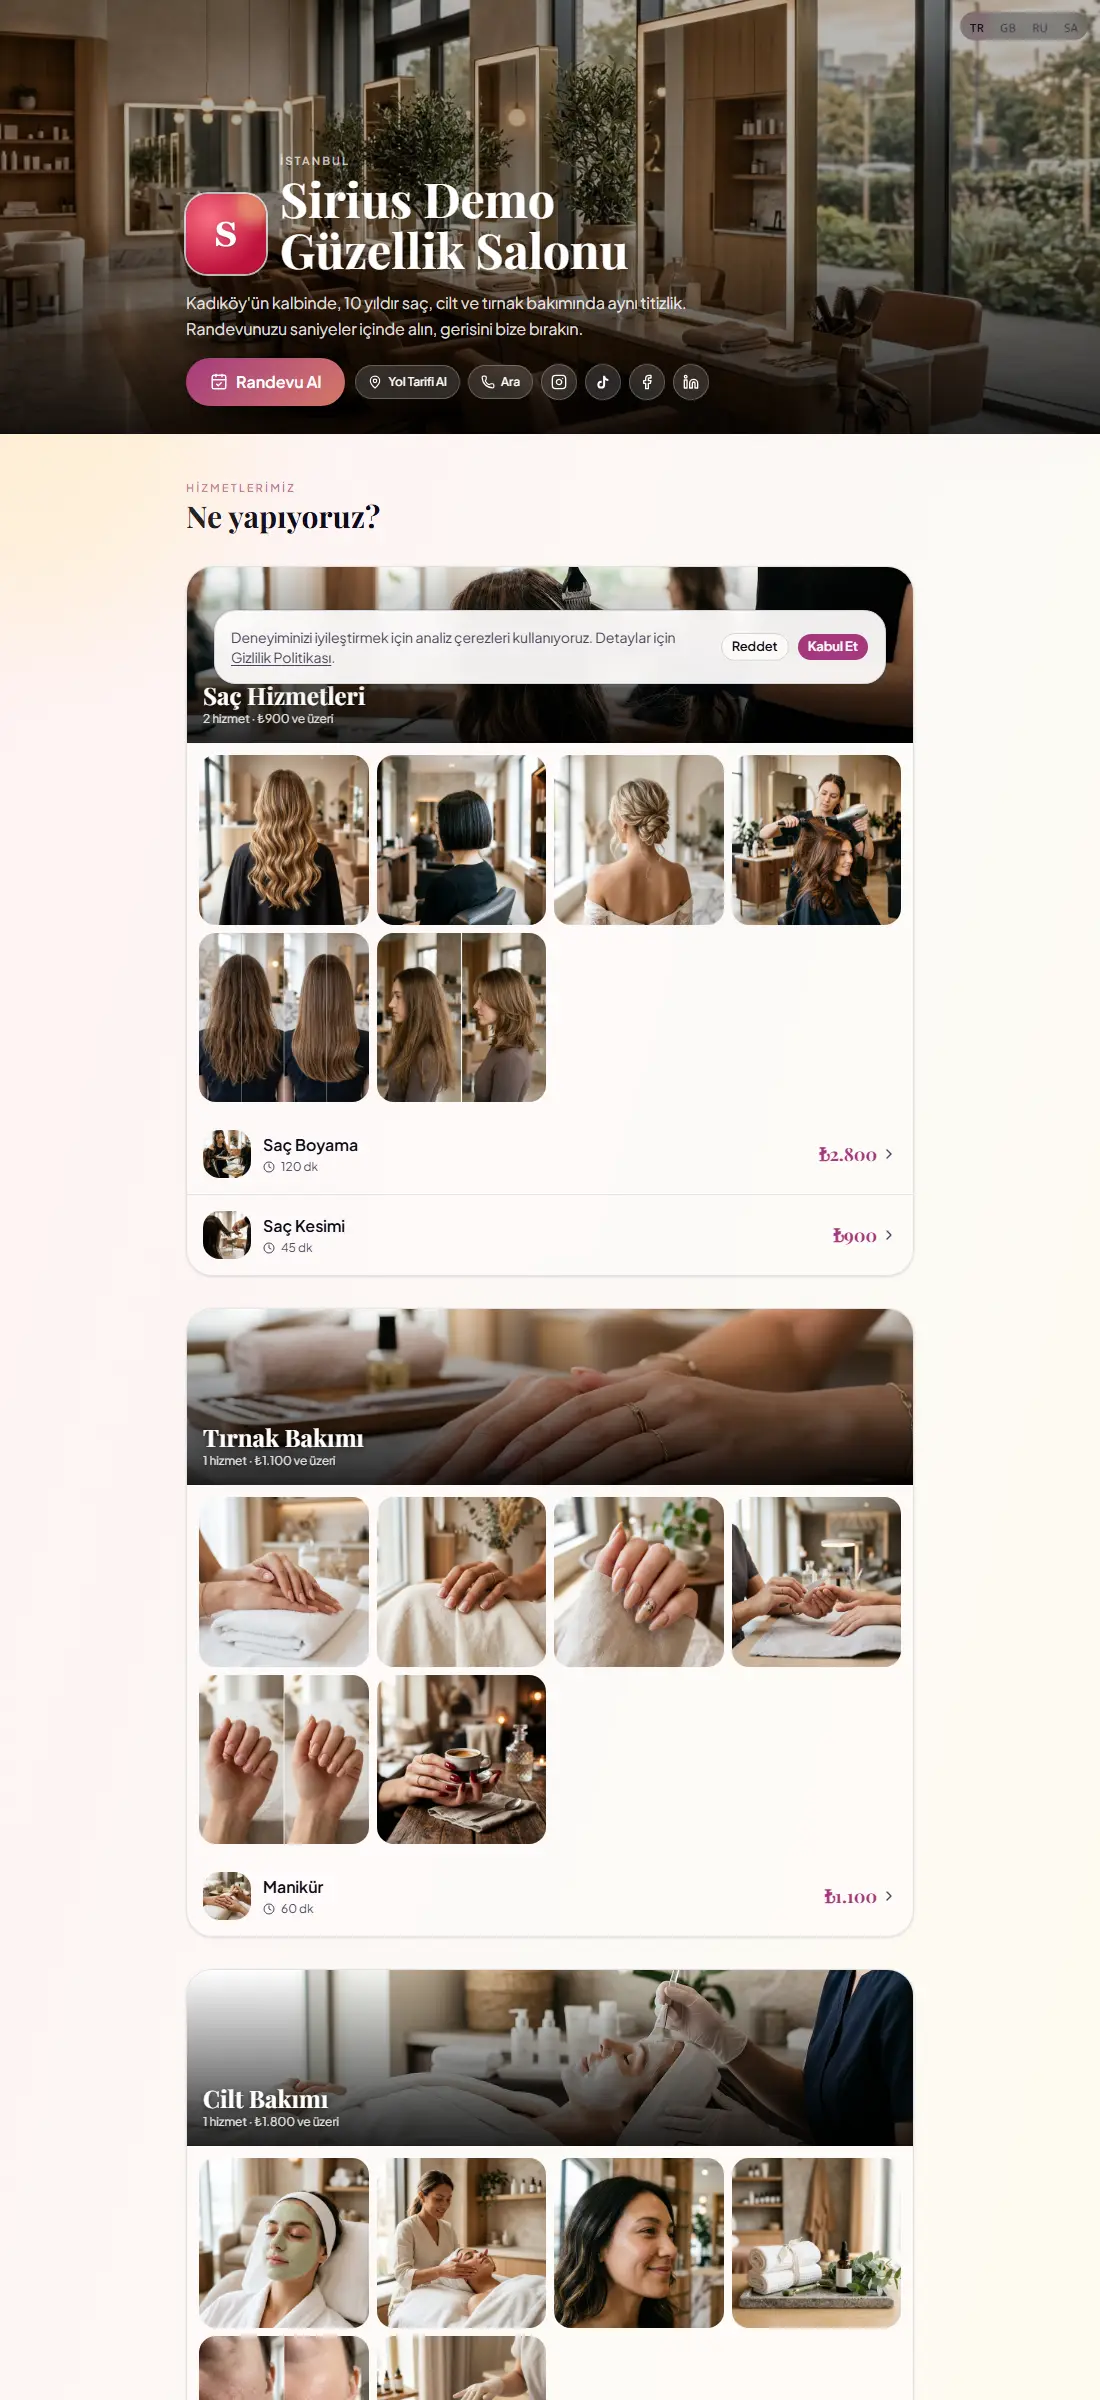
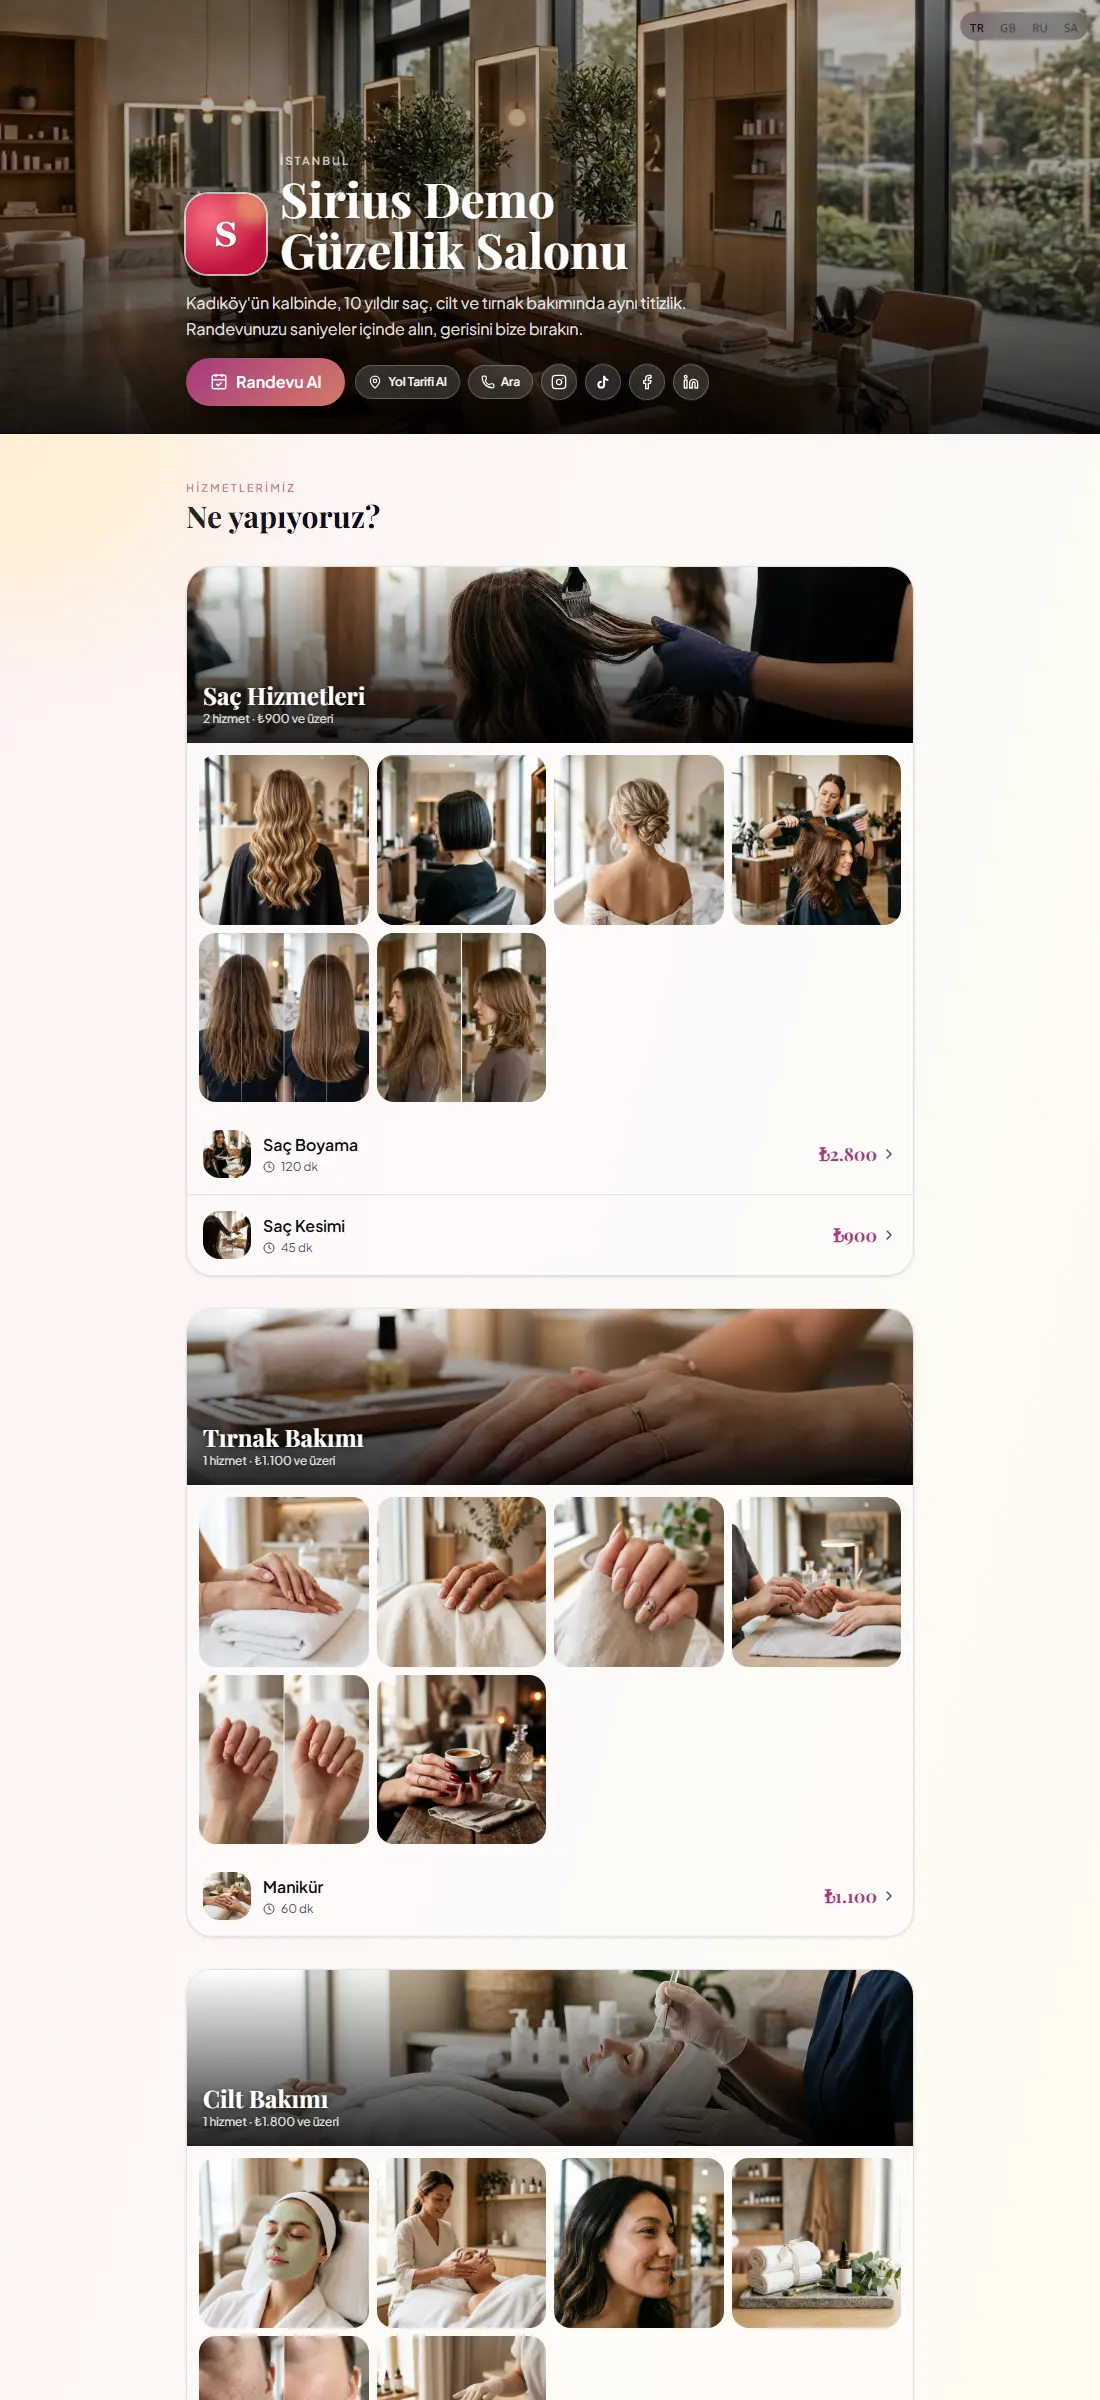
feat(ana-sayfa): telefon demosu kendi kendine oynar (site → saat → uzman → onay → WhatsApp/Telegram bildirimi)
- Eski telefon ekran görüntüsü geri geldi ve senaryonun ilk sahnesi oldu
- Dokunuş halkası + üstten kayan bildirimler
- Masaüstü site görselinden çerez bandı kaldırıldı

Changed region(s): [[0.1855, 0.25, 0.8036, 0.3125]]

diff --git a/src/components/marketing/BookingDemo.tsx b/src/components/marketing/BookingDemo.tsx
@@ -1,14 +1,21 @@
 "use client";
 
-import { useState } from "react";
+import { useEffect, useState } from "react";
+import Image from "next/image";
 import { useTranslations } from "next-intl";
-import { CalendarCheck, Check, ChevronLeft, Clock, MessageCircle, RotateCcw, Send } from "lucide-react";
+import { CalendarCheck, Check, Clock, MessageCircle, Send } from "lucide-react";
 
 /**
- * Ana sayfa "Website Modu" vitrinindeki etkileşimli mini randevu demosu.
- * Saat seç → uzman seç → randevu oluştu + müşteriye WhatsApp / salona Telegram
- * bildirimi. Tamamen dekoratif/yerel durum; hiçbir API çağrısı yapmaz.
+ * Ana sayfa "Website Modu" vitrinindeki telefon demosu. Kendi kendine oynar:
+ * salon sayfası → "Randevu Al"a dokunuş → saatler → saat seçimi → uzman →
+ * randevu oluştu → WhatsApp ve Telegram bildirimi. Tamamen dekoratif; hiçbir
+ * API çağrısı yapmaz, yalnızca yerel zamanlayıcı kullanır.
  */
+type Screen = "site" | "time" | "staff" | "done";
+
+const TIME = "10:00";
+const STAFF = "Selin";
+
 const SLOTS = [
   { time: "09:30", taken: false },
   { time: "10:00", taken: false },
@@ -18,142 +25,172 @@ const SLOTS = [
   { time: "16:00", taken: true },
 ];
 
-const STAFF = [
+const PEOPLE = [
   { name: "Selin", src: "/sectors/guzellik.jpg", pos: "object-[50%_25%]" },
   { name: "Mert", src: "/sectors/berber.jpg", pos: "object-[38%_22%]" },
   { name: "Elif", src: "/sectors/makyaj.jpg", pos: "object-[45%_22%]" },
 ];
 
-type Step = "time" | "staff" | "done";
+// Senaryo: her adım bir ekran, isteğe bağlı dokunuş (tap) ve bildirim sayısı.
+const STEPS: { screen: Screen; ms: number; tap?: boolean; notif?: number }[] = [
+  { screen: "site", ms: 1800 },
+  { screen: "site", ms: 700, tap: true },
+  { screen: "time", ms: 1500 },
+  { screen: "time", ms: 800, tap: true },
+  { screen: "staff", ms: 1300 },
+  { screen: "staff", ms: 800, tap: true },
+  { screen: "done", ms: 1400 },
+  { screen: "done", ms: 2200, notif: 1 },
+  { screen: "done", ms: 3200, notif: 2 },
+];
+
+function Tap() {
+  return (
+    <span className="pointer-events-none absolute left-1/2 top-1/2 z-20 -translate-x-1/2 -translate-y-1/2">
+      <span className="sp-tap absolute -left-5 -top-5 h-10 w-10 rounded-full bg-primary/40" />
+      <span className="absolute -left-2 -top-2 h-4 w-4 rounded-full border-2 border-white bg-primary shadow-lg" />
+    </span>
+  );
+}
 
 export function BookingDemo() {
   const t = useTranslations("homeVisual.website.demo");
-  const [step, setStep] = useState<Step>("time");
-  const [time, setTime] = useState<string | null>(null);
-  const [staff, setStaff] = useState<string | null>(null);
+  const [i, setI] = useState(0);
+  const step = STEPS[i];
 
-  const reset = () => {
-    setStep("time");
-    setTime(null);
-    setStaff(null);
-  };
+  useEffect(() => {
+    const id = setTimeout(() => setI((n) => (n + 1) % STEPS.length), step.ms);
+    return () => clearTimeout(id);
+  }, [i, step.ms]);
 
   return (
-    <div className="w-full overflow-hidden rounded-[1.8rem] border-[5px] border-foreground/85 bg-card shadow-2xl shadow-primary/25">
-      <div className="bg-gradient-to-r from-primary to-amber-500 px-4 py-3 text-primary-foreground">
-        <div className="flex items-center gap-2 text-sm font-bold">
-          <CalendarCheck className="h-4 w-4" />
-          {t("title")}
+    <div className="relative w-full overflow-hidden rounded-[1.8rem] border-[5px] border-foreground/85 bg-foreground/85 shadow-2xl shadow-primary/25">
+      <div className="relative aspect-[390/844] overflow-hidden rounded-[1.4rem] bg-background">
+        {/* Salon sayfası (gerçek ekran görüntüsü) */}
+        {step.screen === "site" && (
+          <div key="site" className="absolute inset-0 animate-fade-up">
+            <Image
+              src="/website-demo/mobile.webp"
+              alt=""
+              fill
+              sizes="250px"
+              className="object-cover object-top"
+            />
+            {/* "Randevu Al" düğmesinin üstündeki dokunuş */}
+            <div className="absolute bottom-[3%] left-1/2 h-[6%] w-[90%] -translate-x-1/2">
+              {step.tap && <Tap />}
+            </div>
+          </div>
+        )}
+
+        {/* Başlık şeridi: saat/uzman/onay ekranlarında */}
+        {step.screen !== "site" && (
+          <div key={`head-${step.screen}`} className="absolute inset-0 flex flex-col bg-card">
+            <div className="bg-gradient-to-r from-primary to-amber-500 px-4 pb-3 pt-5 text-primary-foreground">
+              <div className="flex items-center gap-2 text-sm font-bold">
+                <CalendarCheck className="h-4 w-4" />
+                {t("title")}
+              </div>
+              <div className="mt-0.5 flex items-center gap-1.5 text-[11px] opacity-90">
+                <Clock className="h-3 w-3" />
+                {t("service")} · {t("tomorrow")}
+              </div>
+            </div>
+
+            <div className="flex-1 p-4 pt-5">
+              {step.screen === "time" && (
+                <div className="animate-fade-up">
+                  <div className="mb-3 text-sm font-semibold text-foreground">{t("pickTime")}</div>
+                  <div className="grid grid-cols-3 gap-2.5">
+                    {SLOTS.map((s) => {
+                      const picked = s.time === TIME && step.tap;
+                      return (
+                        <div
+                          key={s.time}
+                          className={`relative rounded-xl border py-4 text-center text-sm font-bold transition-all duration-300 ${
+                            s.taken
+                              ? "border-border bg-muted/50 text-muted-foreground/50 line-through"
+                              : picked
+                                ? "scale-105 border-primary bg-primary text-primary-foreground shadow-lg shadow-primary/30"
+                                : "border-primary/30 bg-primary/10 text-primary"
+                          }`}
+                        >
+                          {s.time}
+                          {s.time === TIME && step.tap && <Tap />}
+                        </div>
+                      );
+                    })}
+                  </div>
+                </div>
+              )}
+
+              {step.screen === "staff" && (
+                <div className="animate-fade-up">
+                  <div className="mb-3 text-sm font-semibold text-foreground">
+                    {t("pickStaff")} · {TIME}
+                  </div>
+                  <div className="space-y-3">
+                    {PEOPLE.map((p) => {
+                      const picked = p.name === STAFF && step.tap;
+                      return (
+                        <div
+                          key={p.name}
+                          className={`relative flex items-center gap-3 rounded-xl border p-3 transition-all duration-300 ${
+                            picked ? "scale-[1.03] border-primary bg-primary/10 shadow-md" : "border-border bg-background"
+                          }`}
+                        >
+                          {/* eslint-disable-next-line @next/next/no-img-element */}
+                          <img src={p.src} alt="" className={`h-12 w-12 rounded-full object-cover ring-2 ring-primary/20 ${p.pos}`} />
+                          <span className="flex-1 text-sm font-semibold">{p.name}</span>
+                          {picked && <Check className="h-4 w-4 text-primary" />}
+                          {picked && <Tap />}
+                        </div>
+                      );
+                    })}
+                  </div>
+                </div>
+              )}
+
+              {step.screen === "done" && (
+                <div className="animate-fade-up pt-16 text-center">
+                  <span className="mx-auto flex h-16 w-16 items-center justify-center rounded-full bg-emerald-500 text-white shadow-lg shadow-emerald-500/40">
+                    <Check className="h-8 w-8" />
+                  </span>
+                  <div className="mt-3 text-base font-bold">{t("done")}</div>
+                  <div className="mt-1 text-[11px] text-muted-foreground">
+                    {t("summary", { staff: STAFF, time: TIME })}
+                  </div>
+                </div>
+              )}
+            </div>
+          </div>
+        )}
+
+        {/* Telefon bildirimleri: üstten kayarak gelir */}
+        <div className="pointer-events-none absolute inset-x-2 top-2 z-30 space-y-1.5">
+          {(step.notif ?? 0) >= 1 && (
+            <div key="wa" className="sp-notif rounded-2xl border border-border bg-card/95 p-2.5 shadow-xl backdrop-blur">
+              <div className="mb-0.5 flex items-center gap-1.5 text-[10px] font-semibold text-emerald-600 dark:text-emerald-400">
+                <span className="flex h-4 w-4 items-center justify-center rounded bg-emerald-500 text-white">
+                  <MessageCircle className="h-2.5 w-2.5" />
+                </span>
+                WhatsApp
+              </div>
+              <div className="text-[11px] leading-snug text-foreground">{t("wa", { time: TIME })}</div>
+            </div>
+          )}
+          {(step.notif ?? 0) >= 2 && (
+            <div key="tg" className="sp-notif rounded-2xl border border-border bg-card/95 p-2.5 shadow-xl backdrop-blur">
+              <div className="mb-0.5 flex items-center gap-1.5 text-[10px] font-semibold text-sky-600 dark:text-sky-400">
+                <span className="flex h-4 w-4 items-center justify-center rounded bg-sky-500 text-white">
+                  <Send className="h-2.5 w-2.5" />
+                </span>
+                Telegram
+              </div>
+              <div className="text-[11px] leading-snug text-foreground">{t("tg", { time: TIME })}</div>
+            </div>
+          )}
         </div>
-        <div className="mt-0.5 flex items-center gap-1.5 text-[11px] opacity-90">
-          <Clock className="h-3 w-3" />
-          {t("service")} · {t("tomorrow")}
-        </div>
-      </div>
-
-      <div className="min-h-[300px] p-3.5">
-        {step === "time" && (
-          <div key="time" className="animate-fade-up">
-            <div className="mb-2 text-xs font-semibold text-foreground">{t("pickTime")}</div>
-            <div className="grid grid-cols-3 gap-2">
-              {SLOTS.map((s) => (
-                <button
-                  key={s.time}
-                  type="button"
-                  disabled={s.taken}
-                  onClick={() => {
-                    setTime(s.time);
-                    setStep("staff");
-                  }}
-                  className={
-                    s.taken
-                      ? "cursor-not-allowed rounded-xl border border-border bg-muted/50 py-2 text-xs font-semibold text-muted-foreground/50 line-through"
-                      : "rounded-xl border border-primary/30 bg-primary/10 py-2 text-xs font-bold text-primary transition-all duration-200 hover:-translate-y-0.5 hover:bg-primary hover:text-primary-foreground hover:shadow-md active:scale-95"
-                  }
-                >
-                  {s.time}
-                </button>
-              ))}
-            </div>
-            <p className="mt-3 animate-pulse text-center text-[11px] text-muted-foreground">👆 {t("hint")}</p>
-          </div>
-        )}
-
-        {step === "staff" && time && (
-          <div key="staff" className="animate-fade-up">
-            <button
-              type="button"
-              onClick={() => setStep("time")}
-              className="mb-2 flex items-center gap-1 text-[11px] font-medium text-muted-foreground hover:text-foreground"
-            >
-              <ChevronLeft className="h-3.5 w-3.5 rtl:rotate-180" />
-              {t("back")} · {time}
-            </button>
-            <div className="mb-2 text-xs font-semibold text-foreground">{t("pickStaff")}</div>
-            <div className="space-y-2">
-              {STAFF.map((p) => (
-                <button
-                  key={p.name}
-                  type="button"
-                  onClick={() => {
-                    setStaff(p.name);
-                    setStep("done");
-                  }}
-                  className="group flex w-full items-center gap-3 rounded-xl border border-border bg-background p-2 text-start transition-all duration-200 hover:-translate-y-0.5 hover:border-primary/50 hover:shadow-md active:scale-[0.98]"
-                >
-                  {/* eslint-disable-next-line @next/next/no-img-element */}
-                  <img
-                    src={p.src}
-                    alt=""
-                    className={`h-10 w-10 rounded-full object-cover ring-2 ring-primary/20 transition group-hover:ring-primary ${p.pos}`}
-                  />
-                  <span className="flex-1 text-sm font-semibold">{p.name}</span>
-                  <Check className="h-4 w-4 text-primary opacity-0 transition group-hover:opacity-100" />
-                </button>
-              ))}
-            </div>
-          </div>
-        )}
-
-        {step === "done" && time && staff && (
-          <div key="done" className="animate-fade-up">
-            <div className="mb-3 flex items-center gap-2.5">
-              <span className="flex h-9 w-9 shrink-0 items-center justify-center rounded-full bg-emerald-500 text-white shadow-md shadow-emerald-500/30">
-                <Check className="h-5 w-5" />
-              </span>
-              <div className="min-w-0">
-                <div className="text-sm font-bold leading-tight">{t("done")}</div>
-                <div className="truncate text-[11px] text-muted-foreground">
-                  {t("summary", { staff, time })}
-                </div>
-              </div>
-            </div>
-
-            <div className="space-y-2 text-[11px] leading-snug">
-              <div className="animate-fade-up rounded-xl rounded-ss-sm bg-emerald-500/10 p-2.5" style={{ animationDelay: "0.5s" }}>
-                <div className="mb-1 flex items-center gap-1 font-semibold text-emerald-600 dark:text-emerald-400">
-                  <MessageCircle className="h-3 w-3" /> WhatsApp
-                </div>
-                {t("wa", { time })}
-              </div>
-              <div className="animate-fade-up rounded-xl rounded-ss-sm bg-sky-500/10 p-2.5" style={{ animationDelay: "1.2s" }}>
-                <div className="mb-1 flex items-center gap-1 font-semibold text-sky-600 dark:text-sky-400">
-                  <Send className="h-3 w-3" /> Telegram
-                </div>
-                {t("tg", { time })}
-              </div>
-            </div>
-
-            <button
-              type="button"
-              onClick={reset}
-              className="mt-3 flex items-center gap-1 text-[11px] font-medium text-muted-foreground hover:text-foreground"
-            >
-              <RotateCcw className="h-3 w-3" />
-              {t("reset")}
-            </button>
-          </div>
-        )}
       </div>
     </div>
   );

diff --git a/src/components/marketing/WebsiteShowcase.tsx b/src/components/marketing/WebsiteShowcase.tsx
@@ -75,7 +75,7 @@ export async function WebsiteShowcase() {
               </div>
               <div className="aspect-[1100/688] overflow-hidden bg-background">
                 <Image
-                  src="/website-demo/desktop-tall.webp"
+                  src="/website-demo/site-desktop.webp"
                   alt={t("imgAlt")}
                   width={1100}
                   height={2400}
@@ -85,7 +85,7 @@ export async function WebsiteShowcase() {
               </div>
             </div>
 
-            <div className="mx-auto mt-6 w-full max-w-[280px] sm:absolute sm:-bottom-6 sm:right-0 sm:mt-0 sm:w-[250px]">
+            <div className="mx-auto mt-6 w-full max-w-[240px] sm:absolute sm:-bottom-6 sm:right-0 sm:mt-0 sm:w-[230px]">
               <BookingDemo />
             </div>
           </div>

diff --git a/src/app/globals.css b/src/app/globals.css
@@ -767,3 +767,15 @@ html {
 @media (prefers-reduced-motion: reduce) {
   .sp-site-scroll-desktop { animation: none; }
 }
+
+/* Telefon demosu: dokunuş halkası + üstten kayan bildirim */
+@keyframes sp-tap {
+  0% { transform: scale(0.4); opacity: 0.9; }
+  100% { transform: scale(1.6); opacity: 0; }
+}
+.sp-tap { animation: sp-tap 0.7s ease-out infinite; }
+@keyframes sp-notif-in {
+  from { opacity: 0; transform: translateY(-120%); }
+  to { opacity: 1; transform: translateY(0); }
+}
+.sp-notif { animation: sp-notif-in 0.5s cubic-bezier(0.16, 1, 0.3, 1) both; }
